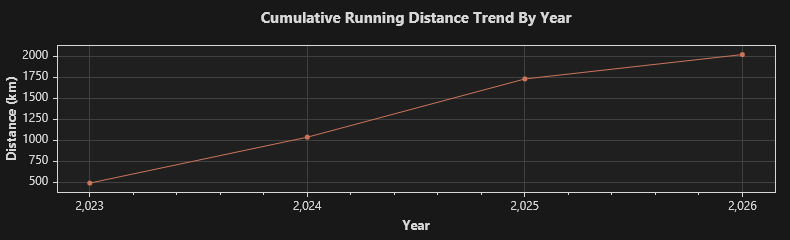
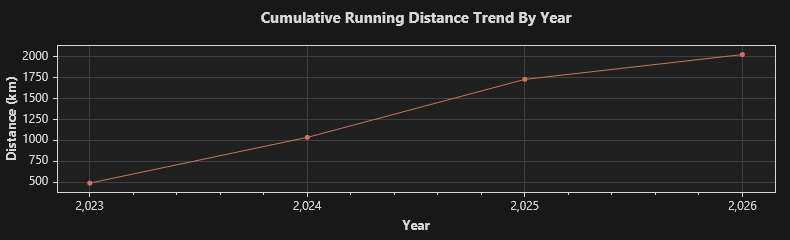
2026/6/16 跑步 6.09 公里

diff --git a/trend.md b/trend.md
@@ -1,4 +1,4 @@
-### Total: 344 days, 2018.41 km.
+### Total: 345 days, 2024.5 km.
 
 
 ![Monthly](https://github.com/prime167/MyRunningLog/blob/main/data/CumulativeTrendByMonth.png)